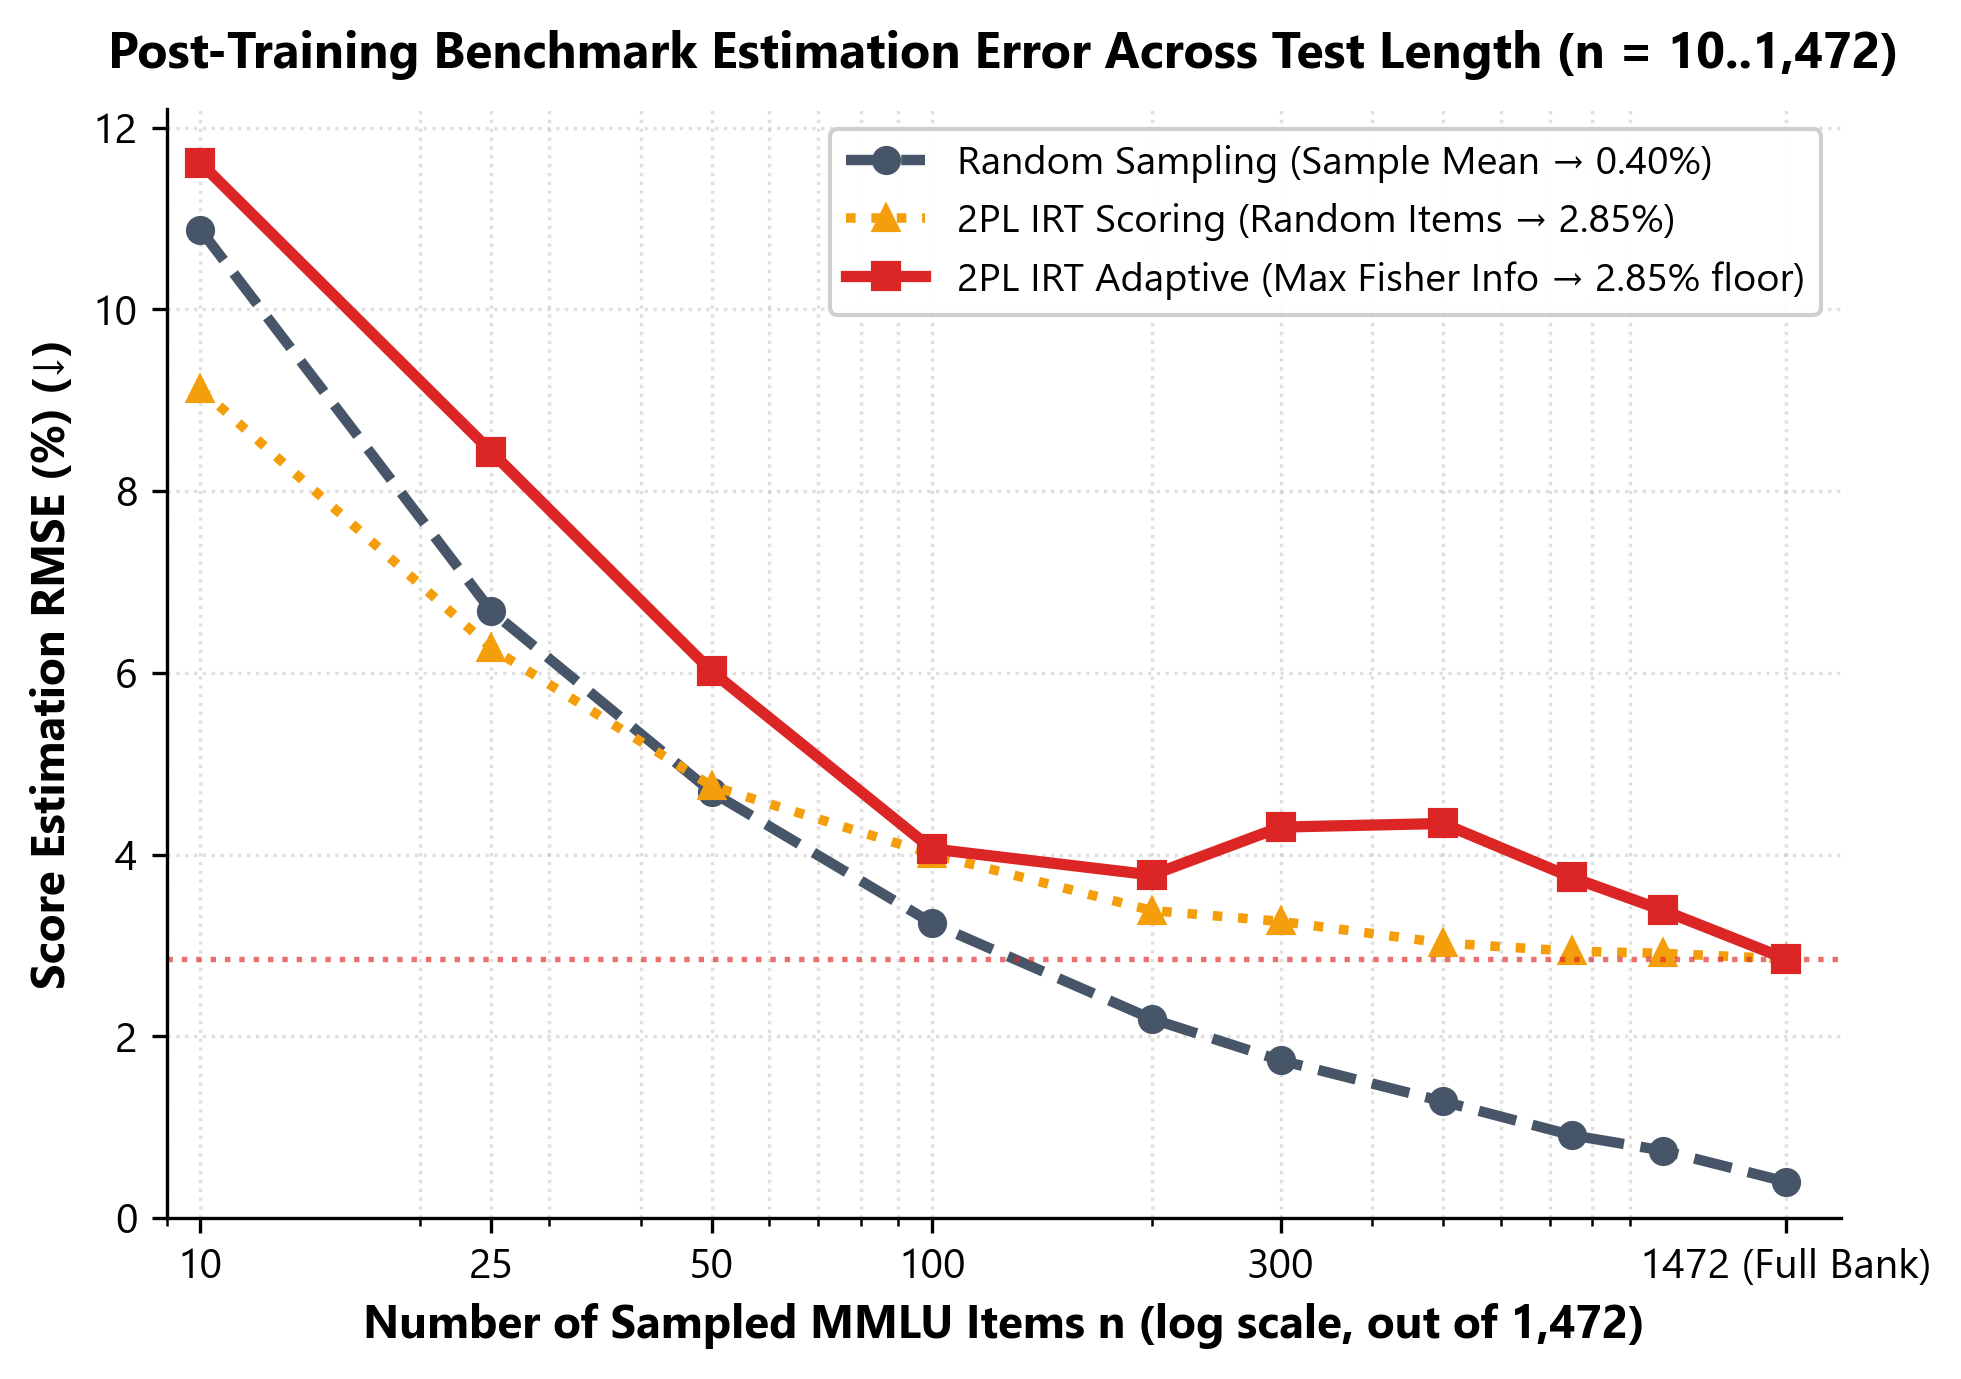
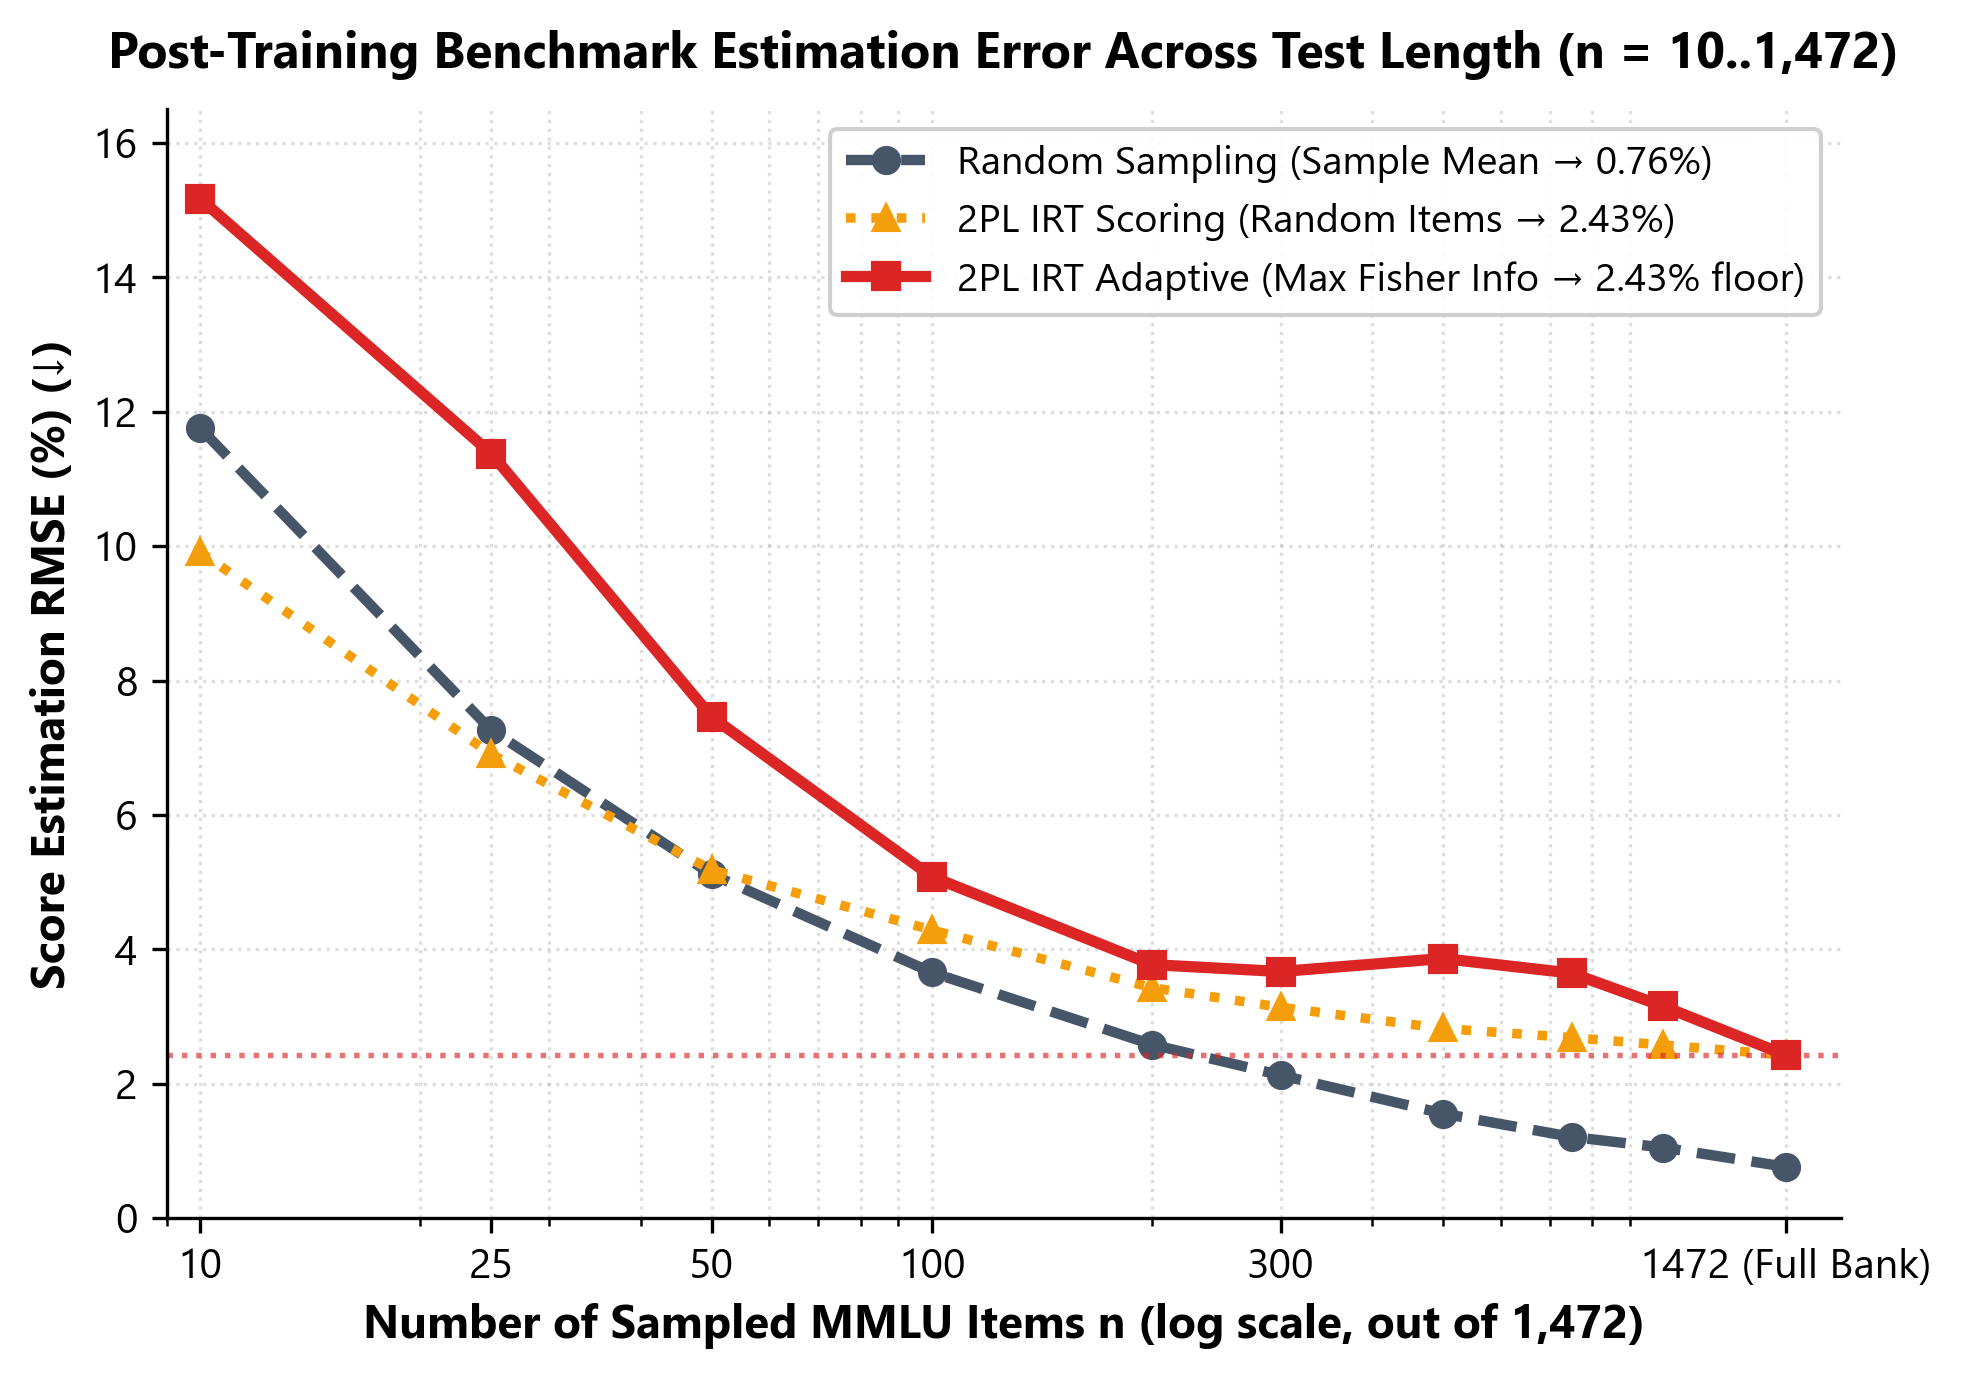
Update Fig01 to use official cluster Q2a extended table (results/Q2a/errors_ext.csv, 8688d83)

diff --git a/gemini/make_oct26_figures.py b/gemini/make_oct26_figures.py
@@ -139,7 +139,8 @@ def make_fig0_eedi():
 # FIGURE 1 (Unit Q2a Extended, Single-Panel): Post-Training Evaluation Across Full Bank (n = 10..1,472)
 # ==============================================================================
 def make_fig1_posttraining_q2a():
-    ext_df = pd.read_csv(r"D:\surrogates\gemini\q2a_extended_n_t9r.csv")
+    ext_df = pd.read_csv(os.path.join(RESULTS, "Q2a", "errors_ext.csv"))
+    ext_df = ext_df[ext_df["target"] == "state"].copy()
     ns_ext = [10, 25, 50, 100, 200, 300, 500, 750, 1000, 1472]
     k16 = ext_df[ext_df["k"] == 16].groupby(["n", "method"])["rmse"].mean().unstack() * 100.0
 
@@ -150,19 +151,19 @@ def make_fig1_posttraining_q2a():
     y_ad = [k16.loc[n, "irt_adaptive"] for n in ns_ext]
 
     ax.plot(ns_ext, y_cl, "--o", color="#475569", linewidth=2.5, markersize=6,
-            label="Random Sampling (Sample Mean \u2192 0.40%)")
+            label=f"Random Sampling (Sample Mean \u2192 {y_cl[-1]:.2f}%)")
     ax.plot(ns_ext, y_rd, ":^", color="#F59E0B", linewidth=2.3, markersize=5.8,
-            label="2PL IRT Scoring (Random Items \u2192 2.85%)")
+            label=f"2PL IRT Scoring (Random Items \u2192 {y_rd[-1]:.2f}%)")
     ax.plot(ns_ext, y_ad, "-s", color="#DC2626", linewidth=2.7, markersize=6.2,
-            label="2PL IRT Adaptive (Max Fisher Info \u2192 2.85% floor)")
+            label=f"2PL IRT Adaptive (Max Fisher Info \u2192 {y_ad[-1]:.2f}% floor)")
 
-    ax.axhline(2.85, color="#DC2626", linestyle=":", linewidth=1.3, alpha=0.65)
+    ax.axhline(y_ad[-1], color="#DC2626", linestyle=":", linewidth=1.3, alpha=0.65)
 
     ax.set_xscale("log")
     ax.set_xticks([10, 25, 50, 100, 300, 1472])
     ax.set_xticklabels(["10", "25", "50", "100", "300", "1472 (Full Bank)"])
     ax.set_xlim(9, 1750)
-    ax.set_ylim(0, 12.2)
+    ax.set_ylim(0, 16.5)
     ax.set_title("Post-Training Benchmark Estimation Error Across Test Length (n = 10..1,472)", pad=10)
     ax.set_xlabel("Number of Sampled MMLU Items n (log scale, out of 1,472)")
     ax.set_ylabel("Score Estimation RMSE (%) (\u2193)")
